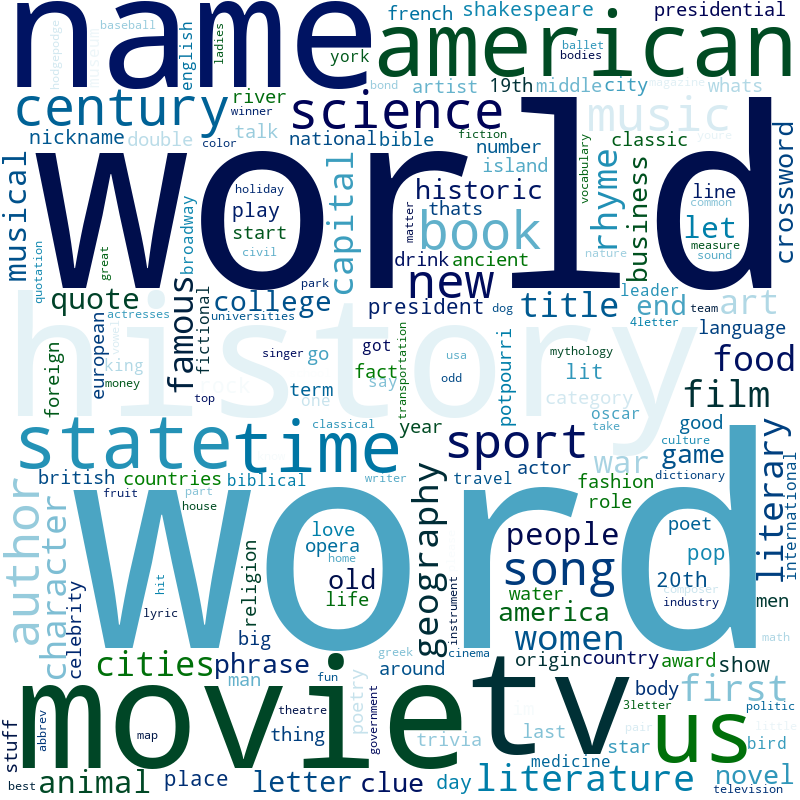
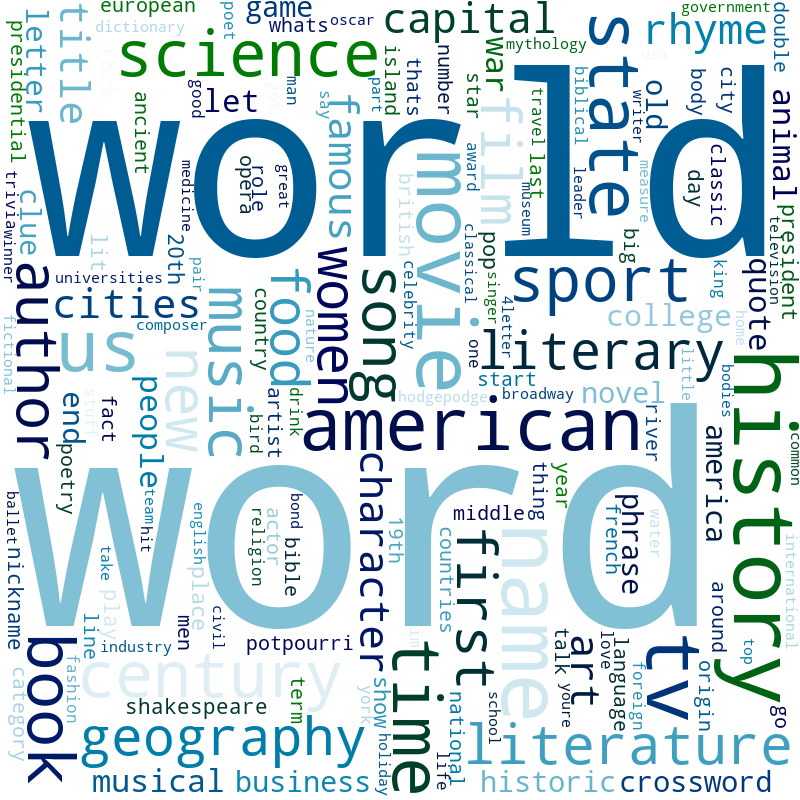
graphs

diff --git a/src/jeopardy_eda.py b/src/jeopardy_eda.py
@@ -5,9 +5,6 @@ from wordcloud import WordCloud, STOPWORDS
 
 from nltk.corpus import stopwords
 from nltk.tokenize import word_tokenize
-from nltk.stem.porter import PorterStemmer
-from nltk.stem.snowball import SnowballStemmer
-from nltk.stem.wordnet import WordNetLemmatizer
 from sklearn.feature_extraction.text import CountVectorizer, TfidfVectorizer
 from sklearn.metrics.pairwise import linear_kernel
 from sklearn.model_selection import train_test_split
@@ -91,8 +88,16 @@ def graph_wrd_cts(df, col, color, save = False):
     if save:
         plt.savefig(f'../images/eda_images/{col}_counts_bar.png')
 
-def top_categories(df):
-    n = 10
+def top_categories(df, n):
+    """[summary]
+
+    Args:
+        df ([type]): [description]
+        n ([type]): [description]
+
+    Returns:
+        [type]: [description]
+    """    
     common_topics = df['category'].value_counts()[:n]
     common_topics
     common_cats = pd.DataFrame(common_topics).reset_index().rename(columns = {"index":"J-Category", "category":"Counts"})
@@ -100,8 +105,17 @@ def top_categories(df):
     pd.Series(counts)
     common_cats['Counts'] = pd.Series(counts)
     common_cats = common_cats.set_index('J-Category')
+    return common_cats
+
+def graph_top_categories(df, color, save = False):
+    """[summary]
+
+    Args:
+        df ([type]): [description]
+        save (bool, optional): [description]. Defaults to False.
+    """    
     fig, ax = plt.subplots(1, 1, figsize = (6, 4), dpi = 140)
-    ax.bar(common_cats.index, common_cats['Counts'], color = 'darkblue')
+    ax.bar(common_cats.index, common_cats['Counts'], color = color)
     ax.set_ylabel("Number of Episodes J-Category Occurs", fontsize = 14)
     ax.set_title("Top 10 J-Categories", fontsize = 14)
     ax.set_xlabel("J-Categories", fontsize = 16)
@@ -124,7 +138,7 @@ if __name__ == "__main__":
     regular_episodes_sub = preprocessing.make_sub_df(regular_episodes)
 
 
-    make_word_cloud(jeopardy_df, 'category',  color = 'ocean', save = True )
+    # make_word_cloud(jeopardy_df, 'category',  color = 'ocean', save = True )
     # make_word_cloud(jeopardy_df, 'question',  color = 'plasma', save = False)
     # make_word_cloud(jeopardy_df, 'answer',  color = 'plasma', save = False)
     # make_word_cloud(jeopardy_df, 'question_and_answer', color = 'plasma', save = True )
@@ -132,9 +146,11 @@ if __name__ == "__main__":
     df = get_wrd_cts(special_tournaments)
     avgs = df.groupby('Clue Difficulty').mean().sort_values('Answer Word Count').round(2)
     maxes = df.groupby('Clue Difficulty').max().sort_values('Answer Word Count').round(2)
-    graph_wrd_cts(avgs, 'Answer Word Count', color = 'indigo', save = True)
+    # graph_wrd_cts(avgs, 'Answer Word Count', color = 'indigo', save = True)
     # graph_wrd_cts(avgs, 'Question Word Count', color = 'darkorange', save = False)
 
-    # top_categories(jeopardy_df)
+    # top_categories(jeopardy_df, 10)
+    common_cats = top_categories(jeopardy_df, 10)
+    graph_top_categories(common_cats, color = "steelblue", save = True)
     
 

diff --git a/src/clustering_model.py b/src/clustering_model.py
@@ -129,7 +129,6 @@ def viz_top_words(words, weights, color, save = False):
     else:
         plt.show()
 
-
     
 
 if __name__ == "__main__":

diff --git a/README.md b/README.md
@@ -102,6 +102,7 @@ The original dataset is a .txt file, downloaded from [kaggle](https://www.kaggle
 <p align="center">
 <img src="https://github.com/JCurley10/Jeopardy_nlp/blob/main/images/eda_images/top_10_categories.png" alt="length_of_answers" width="600" height="400">
 </p>
+American History, History, World History all appear! 
 </p>
 
 <p align="center">
